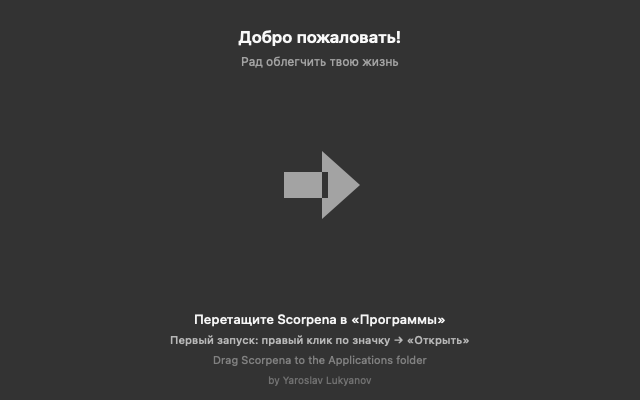
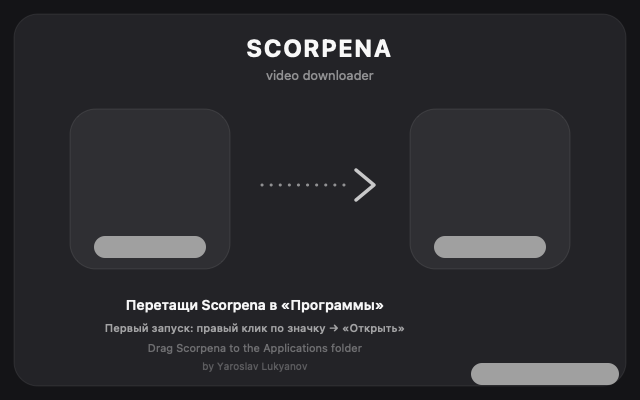
DMG window redesigned in the app's style; completion message shows just the audio format
Dark stage card, rounded icon slots, dotted arrow, label plates readable in light and dark Finder; help file moved so its name is no longer cut off. Audio done message and converting status show only the format name (MP3, WAV, M4A).

diff --git a/Scripts/make-dmg-background.swift b/Scripts/make-dmg-background.swift
@@ -1,5 +1,8 @@
 // Generates the disk-image background: swift make-dmg-background.swift <out.png>
-// Exactly 640×400, light, with a right-pointing arrow between the two icons.
+// Exactly 640×400, in the look of the app: near-black canvas, one big soft rounded
+// "stage" card, the brand on top, a rounded slot behind each of the two icons
+// (app on the left, Applications on the right) and a dotted arrow between them.
+// Icon centres are at x = 150 / 490, y = 185 from the top (package.sh puts them there).
 
 import AppKit
 
@@ -16,45 +19,83 @@ NSGraphicsContext.saveGraphicsState()
 NSGraphicsContext.current = NSGraphicsContext(bitmapImageRep: rep)
 let ctx = NSGraphicsContext.current!.cgContext
 
-// background — dark, close to black
-ctx.setFillColor(NSColor(calibratedWhite: 0.15, alpha: 1).cgColor)
+func white(_ alpha: CGFloat) -> CGColor { NSColor(calibratedWhite: 1, alpha: alpha).cgColor }
+func rounded(_ rect: CGRect, _ radius: CGFloat, fill: CGColor, stroke: CGColor? = nil) {
+    let path = CGPath(roundedRect: rect, cornerWidth: radius, cornerHeight: radius, transform: nil)
+    ctx.setFillColor(fill)
+    ctx.addPath(path)
+    ctx.fillPath()
+    if let stroke {
+        ctx.setStrokeColor(stroke)
+        ctx.setLineWidth(1)
+        ctx.addPath(path)
+        ctx.strokePath()
+    }
+}
+
+// canvas
+ctx.setFillColor(NSColor(calibratedRed: 0.063, green: 0.063, blue: 0.071, alpha: 1).cgColor)
 ctx.fill(CGRect(x: 0, y: 0, width: W, height: H))
 
-// arrow (points right), one filled path so the semi-transparent fill never
-// overlaps itself. Vertically centred on the icon row (Finder y = 185).
-let cx = CGFloat(W) / 2
-let cy = CGFloat(H - 185)
-let arrow = CGMutablePath()
-arrow.addRect(CGRect(x: cx - 36, y: cy - 13, width: 44, height: 26))   // shaft
-arrow.move(to: CGPoint(x: cx + 2,  y: cy - 34))                        // head
-arrow.addLine(to: CGPoint(x: cx + 2,  y: cy + 34))
-arrow.addLine(to: CGPoint(x: cx + 40, y: cy))
-arrow.closeSubpath()
-ctx.setFillColor(NSColor(calibratedWhite: 1, alpha: 0.55).cgColor)
-ctx.addPath(arrow)
-ctx.fillPath()   // one fill of the union → uniform opacity, no seam
+// the stage card
+rounded(CGRect(x: 14, y: 14, width: CGFloat(W) - 28, height: CGFloat(H) - 28), 24,
+        fill: NSColor(calibratedRed: 0.102, green: 0.102, blue: 0.114, alpha: 1).cgColor,
+        stroke: white(0.08))
 
-// text
-func text(_ s: String, size: CGFloat, weight: NSFont.Weight, alpha: CGFloat, y: CGFloat) {
+// brand (top)
+func text(_ s: String, size: CGFloat, weight: NSFont.Weight, alpha: CGFloat, y: CGFloat, kern: CGFloat = 0, x: CGFloat = 20, width: CGFloat? = nil) {
     let p = NSMutableParagraphStyle(); p.alignment = .center
     let attrs: [NSAttributedString.Key: Any] = [
         .font: NSFont.systemFont(ofSize: size, weight: weight),
         .foregroundColor: NSColor(calibratedWhite: 1, alpha: alpha),
         .paragraphStyle: p,
+        .kern: kern,
     ]
-    (s as NSString).draw(in: CGRect(x: 20, y: y, width: CGFloat(W) - 40, height: size + 8),
+    (s as NSString).draw(in: CGRect(x: x, y: y, width: width ?? CGFloat(W) - 2 * x, height: size + 8),
                          withAttributes: attrs)
 }
+text("SCORPENA", size: 24, weight: .bold, alpha: 0.97, y: CGFloat(H) - 66, kern: 2)
+text("video downloader", size: 13, weight: .regular, alpha: 0.5, y: CGFloat(H) - 88)
 
-// title (top)
-text("Добро пожаловать!", size: 17, weight: .semibold, alpha: 0.97, y: CGFloat(H) - 52)
-text("Рад облегчить твою жизнь", size: 12, weight: .regular, alpha: 0.55, y: CGFloat(H) - 74)
+// a rounded slot behind each icon
+let iconY = CGFloat(H - 185)
+for x in [CGFloat(150), CGFloat(490)] {
+    rounded(CGRect(x: x - 80, y: iconY - 84, width: 160, height: 160), 26,
+            fill: white(0.055), stroke: white(0.09))
+}
 
-// install hint + first-launch tip + credit (bottom)
-text("Перетащите Scorpena в «Программы»", size: 13, weight: .medium, alpha: 0.95, y: 68)
-text("Первый запуск: правый клик по значку → «Открыть»", size: 11, weight: .medium, alpha: 0.65, y: 48)
-text("Drag Scorpena to the Applications folder", size: 11, weight: .regular, alpha: 0.38, y: 28)
-text("by Yaroslav Lukyanov", size: 10, weight: .regular, alpha: 0.30, y: 8)
+// Finder draws the file names itself — black on a light-mode Mac, white on a
+// dark-mode one — so a mid-grey pill under each name keeps both readable.
+func plate(centreX: CGFloat, centreY: CGFloat, width: CGFloat) {
+    rounded(CGRect(x: centreX - width / 2, y: centreY - 11, width: width, height: 22), 11,
+            fill: NSColor(calibratedWhite: 0.56, alpha: 1).cgColor)
+}
+plate(centreX: 150, centreY: iconY - 62, width: 112)
+plate(centreX: 490, centreY: iconY - 62, width: 112)
+plate(centreX: 545, centreY: 26, width: 148)
+
+// dotted arrow: "drag this onto that"
+ctx.setStrokeColor(white(0.5))
+ctx.setLineWidth(3)
+ctx.setLineCap(.round)
+ctx.setLineJoin(.round)
+ctx.setLineDash(phase: 0, lengths: [0.1, 9])
+ctx.move(to: CGPoint(x: 262, y: iconY))
+ctx.addLine(to: CGPoint(x: 352, y: iconY))
+ctx.strokePath()
+ctx.setLineDash(phase: 0, lengths: [])
+ctx.setStrokeColor(white(0.75))
+ctx.setLineWidth(3.5)
+ctx.move(to: CGPoint(x: 356, y: iconY + 15))
+ctx.addLine(to: CGPoint(x: 374, y: iconY))
+ctx.addLine(to: CGPoint(x: 356, y: iconY - 15))
+ctx.strokePath()
+
+// install hint + first-launch tip (bottom, left of the help file)
+text("Перетащи Scorpena в «Программы»", size: 14, weight: .semibold, alpha: 0.96, y: 82, x: 40, width: 430)
+text("Первый запуск: правый клик по значку → «Открыть»", size: 11, weight: .medium, alpha: 0.58, y: 60, x: 40, width: 430)
+text("Drag Scorpena to the Applications folder", size: 11, weight: .regular, alpha: 0.34, y: 40, x: 40, width: 430)
+text("by Yaroslav Lukyanov", size: 10, weight: .regular, alpha: 0.26, y: 22, x: 40, width: 430)
 
 NSGraphicsContext.restoreGraphicsState()
 

diff --git a/YouTubeDownloader/Localization.swift b/YouTubeDownloader/Localization.swift
@@ -226,6 +226,7 @@ enum Translations {
         "Распаковываю новую версию рядом со старой…": "Unpacking the new version next to the old one…",
         "Проверяю, что новая версия работает с YouTube, и только потом заменяю…": "Checking that the new version works with YouTube, and only then replacing…",
         "Без ограничения": "No limit",
+        "Конвертация в %@…": "Converting to %@…",
         "Качество:": "Quality:",
         "Вставь ссылку на видео": "Paste a video link",
         "Скачать": "Download",
@@ -236,8 +237,6 @@ enum Translations {
         "Если надо замедлиться. Скорость указана и в мегабитах — как в тарифе провайдера, и в мегабайтах": "If you need to slow it down. The speed is shown both in megabits — like on your internet plan — and in megabytes",
         "%d Мбит/с": "%d Mbit/s",
         "≈ %@ МБ/с": "≈ %@ MB/s",
-        "Конвертация в M4A…": "Converting to M4A…",
-        "Конвертация в WAV…": "Converting to WAV…",
         "Упаковка в %@…": "Packing into %@…",
         "Формат видео": "Video format",
         "Формат звука": "Audio format",
@@ -362,7 +361,6 @@ enum Translations {
         "Скачивание аудио… ": "Downloading audio… ",
         "Скачивание… ": "Downloading… ",
         " · осталось %@": " · %@ left",
-        "Конвертация в MP3 320 kbps…": "Converting to MP3 320 kbps…",
         "Объединение видео и звука…": "Merging video and audio…",
         "Упаковка в MP4…": "Packaging into MP4…",
         "Скачивание аудио…": "Downloading audio…",

diff --git a/YouTubeDownloader/DownloadSettings.swift b/YouTubeDownloader/DownloadSettings.swift
@@ -47,22 +47,10 @@ enum AudioFormat: String, CaseIterable, Identifiable {
         }
     }
 
-    /// "Готово ✅ (MP3 320 kbps)"
-    var resultName: String {
-        switch self {
-        case .mp3: return "MP3 320 kbps"
-        case .wav: return "WAV"
-        case .m4a: return "M4A (AAC)"
-        }
-    }
+    /// "Готово ✅ (MP3)" — just the format, no extras.
+    var resultName: String { title }
 
-    var convertingStatus: String {
-        switch self {
-        case .mp3: return tr("Конвертация в MP3 320 kbps…")
-        case .wav: return tr("Конвертация в WAV…")
-        case .m4a: return tr("Конвертация в M4A…")
-        }
-    }
+    var convertingStatus: String { trf("Конвертация в %@…", title) }
 
     var fileExtensions: Set<String> {
         switch self {
